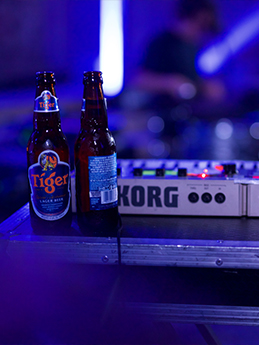
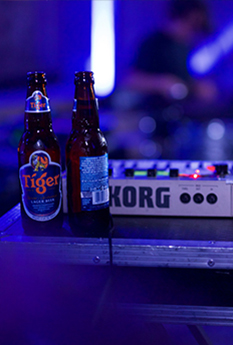
Octoboot - Tue Sep 13 2016 14:58:24 GMT+0200 (CEST)

diff --git a/index.html b/index.html
@@ -224,7 +224,7 @@
           <div class="column" data-to=".screen4acr"><span>MARQUES</span></div>
           <div class="column"><a href="http://espritdevillevert.com/" target="_blank"><span>MAISON VILLEVERT</span></a></div>
           <div class="column" data-to=".screen6acr"><span>CONTACT</span></div>
-          <div class="selectbar" style="display: block; left: 0px; top: 4048px; width: 0px;"></div>
+          <div class="selectbar" style="display: block; left: 0px; top: 5848px; width: 0px;"></div>
           <div class="icon"><img src="img/LOGO-RS-BLANC_VALEURS.png" /></div>
         </div>
       </div>      <div class="floating">
@@ -377,9 +377,9 @@ Saint tropez, vitrine festive de la côte d'azure, qu'à eu lieu la soirée de l
 Devenu le club incontournable de la rivièra française avec sa clientèle internationale, le Moorea Beach Club a ouvert ses portes à nos équipes pour une ambiance festive les pieds dans l'eau et la tête dans le ciel bleu azur.</p>
 <a href="uploads/CIROCVASQUE2.jpg" target="_blank"><img alt="" src="uploads/MOREFESTIVALVENIZE_GVINECOCKTAIL.jpg" title="" /></a>
 <a href="uploads/CIROCPEOPLE.jpg" target="_blank"></a><a href="uploads/CIROCPEOPLE.jpg" target="_blank"></a>
-<a href="uploads/CIROCBEACH2.jpg" target="_blank"><img alt="" src="uploads/CIROCBEACH2.jpg" title="" /></a>
-<a href="uploads/CIROCBRIDGE.jpg" target="_blank"><img alt="" src="uploads/CIROCBRIDGE.jpg" title="" /></a>
-<a href="uploads/CIROCHALO.jpg" target="_blank"><img alt="" src="uploads/CIROCHALO.jpg" title="" /></a>
+<a href="uploads/CIROCBEACH2.jpg" target="_blank"><img alt="" src="uploads/MOREFESTIVALVENIZE_PEOPLE.jpg" title="" /></a>
+<a href="uploads/CIROCBRIDGE.jpg" target="_blank"><img alt="" src="uploads/MOREFESTIVALVENIZE_TIGER.jpg" title="" /></a>
+<a href="uploads/CIROCHALO.jpg" target="_blank"><img alt="" src="uploads/MOREFESTIVALVENIZE_SOIREETIGER.jpg" title="" /></a>
 <a href="uploads/CIROCCOCKTAILS3.jpg" target="_blank"><img alt="" src="uploads/CIROCCOCKTAILS3.jpg" title="" /></a>
 
 <div class="footer"><a href="https://www.facebook.com/renaissancespirits/" target="_blank"><img src="img/PICTO_FACEBOOK.png" /></a> <a href="uploads/Ciroc%20Moorea.rar" target="_blank"><img src="img/PICTO_TELECHARGER.png" /></a></div>
@@ -1740,6 +1740,4 @@ Nos équipes sont salariées, intégrées et leur expérience du secteur est rec
     </section>
     <footer>
           L’ABUS D’ALCOOL EST DANGEREUX POUR LA SANTÉ. A CONSOMMER AVEC MODÉRATION.
-      </footer>
-
-</body></html>
+      </footer></body></html>
